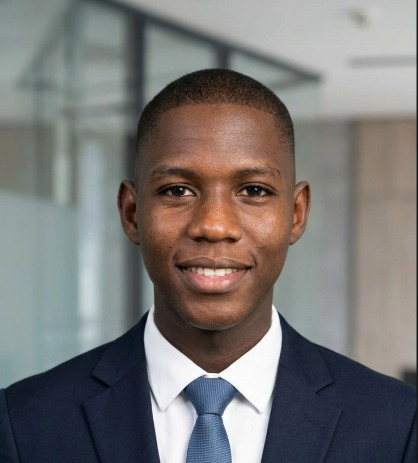
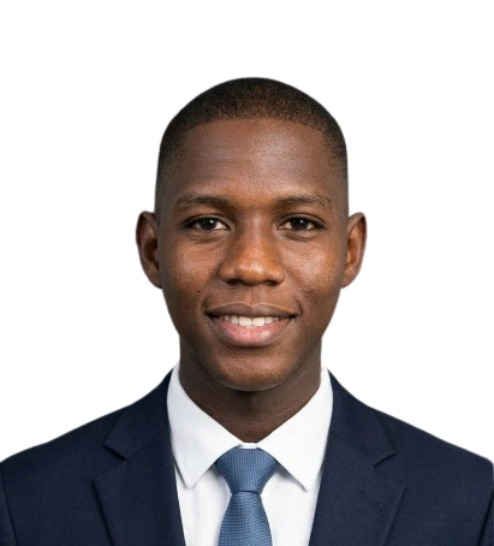
White Background
I added white background to the picture .

diff --git a/index.html b/index.html
@@ -153,22 +153,26 @@
                 <!-- Certificate Card 1 -->
                 <div class="cert-card">
                     <div class="cert-image-wrapper">
-                        <img src="https://via.placeholder.com/500x350" alt="Power Electronics Certification" class="cert-img">
-                    </div>
+                        <a href="https://coursera.org/verify/91FQ5B1STLY7" target="_blank" rel="noopener noreferrer" class="cert-link">
+                            <img src="Certificate/Data Visualization and Modeling in Python.jpg" alt="Data Visualization and Modeling in Python" class="cert-img">
+                        </a>
+                        </div>
                     <div class="cert-body">
-                        <h3>NPTEL - Power Electronics</h3>
-                        <p class="cert-desc">Coursework covering converter topologies, switching devices, and power supply design fundamentals.</p>
+                        <h3>Data Visualization and Modeling in Python</h3>
+                        <p class="cert-desc">Coursework covering data visualization techniques, statistical modeling, and Python libraries such as Matplotlib, Seaborn, and Pandas for analyzing and presenting data.</p>
                     </div>
                 </div>
 
                 <!-- Certificate Card 2 -->
                 <div class="cert-card">
                     <div class="cert-image-wrapper">
-                        <img src="https://via.placeholder.com/500x350" alt="PLC and Industrial Automation Certification" class="cert-img">
-                    </div>
+                        <a href="https://coursera.org/verify/IUMWJJZUJQ4L" target="_blank" rel="noopener noreferrer" class="cert-link">
+                            <img src="Certificate/Foundations of Project Management.jpg" alt="Foundations of Project Management" class="cert-img">
+                        </a>
+                        </div>
                     <div class="cert-body">
-                        <h3>PLC & Industrial Automation</h3>
-                        <p class="cert-desc">Hands-on training in ladder logic programming, SCADA basics, and industrial control panels.</p>
+                        <h3>Foundations of Project Management</h3>
+                        <p class="cert-desc">Coursework covering core project management principles, including planning, scheduling, risk management, and team leadership fundamentals.</p>
                     </div>
                 </div>
 
